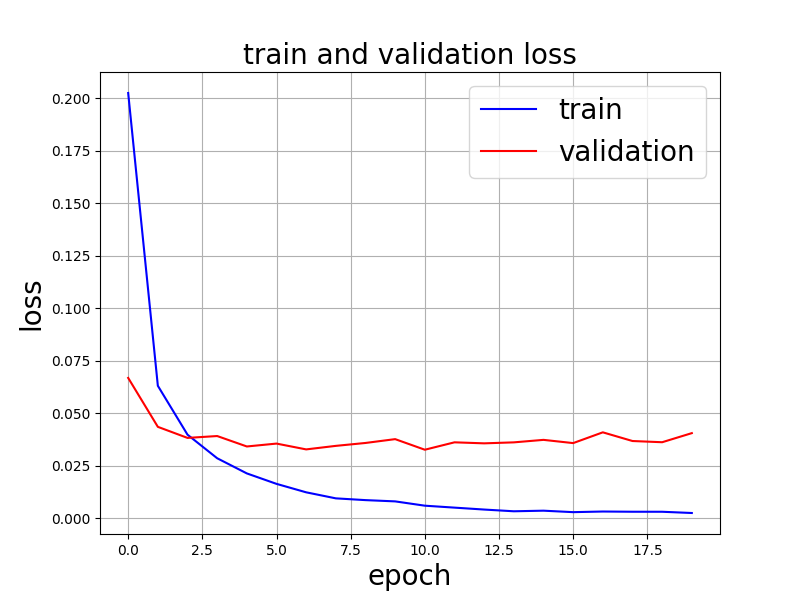
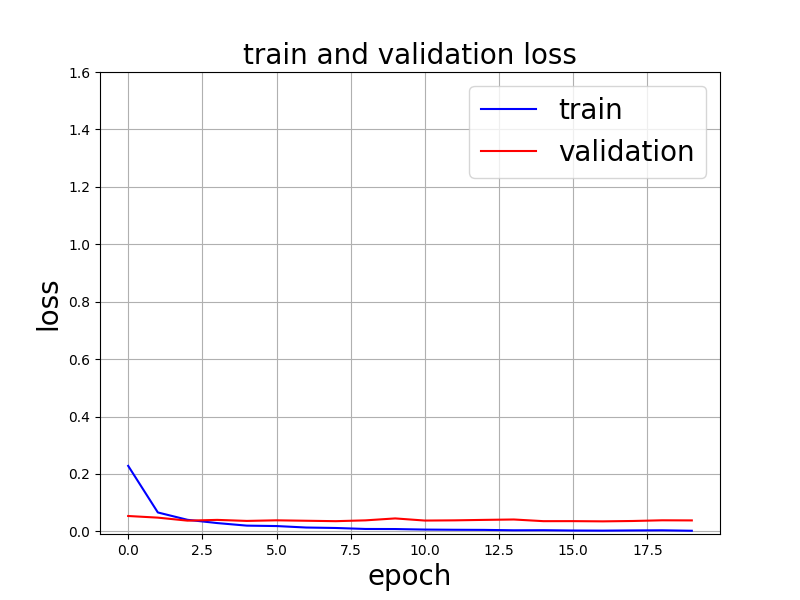
実験15

diff --git a/main.py b/main.py
@@ -14,7 +14,7 @@ model = get_resnet(pretrained=True).to(device)
 dataloader1 = get_train_dataloader(root="data", batch_size=64)
 dataloader2 = get_test_dataloader(root='data', batch_size=64)
 # オプティマイザーの定義
-optimizer = optim.SGD(params=model.parameters(),lr=1e-1)
+optimizer = optim.SGD(params=model.parameters(),lr=1e-2)
 # 損失関数の定義
 criterion = nn.CrossEntropyLoss()
 #epoch数
@@ -48,7 +48,7 @@ def train(epochs):
     print(f"epoch: {epochs + 1}")
     print(f"train_loss: {train_loss / len(dataloader1)}")
     print(f"train_accuracy: {train_accuracy / len(dataloader1)}")
-    with open('./result/data20_train.csv', 'a') as f:
+    with open('./result/data15_train.csv', 'a') as f:
             f.write('{:<3d},{:<3f},{:<3f}\n'.format(epochs+1,train_loss / len(dataloader1),train_accuracy / len(dataloader1)))
     train_loss = train_loss / len(dataloader1)
     train_accuracy = train_accuracy / len(dataloader1)
@@ -77,7 +77,7 @@ def val(epochs):
     print(f"epoch: {epochs + 1}")
     print(f"Validation loss: {val_loss / len(dataloader2)}")
     print(f"Validation accuracy: {val_accuracy / len(dataloader2)}")
-    with open('./result/data20_val.csv', 'a') as f:
+    with open('./result/data15_val.csv', 'a') as f:
             f.write('{:<3d},{:<3f},{:<3f}\n'.format(epochs+1,val_loss / len(dataloader2),val_accuracy / len(dataloader2)))
     val_loss = val_loss / len(dataloader2)
     val_accuracy = val_accuracy / len(dataloader2)
@@ -104,7 +104,7 @@ def run():
     plt.xlabel('Predict class', fontsize=13)
     plt.ylabel('True class', fontsize=13)
     plt.title('Confusion Matrix', fontsize=18)
-    plt.savefig('./result/confusion_matrix_20.png')
+    plt.savefig('./result/confusion_matrix_15.png')
     #lossグラフ作成
     fig, ax = plt.subplots(figsize=(8, 6))
     ax.plot(range(len(train_loss_list)), train_loss_list, c='b', label='train')
@@ -116,7 +116,7 @@ def run():
     ax.grid()
     ax.legend(fontsize='20')
     plt.show()
-    plt.savefig('./result/loss_graph_20.png')
+    plt.savefig('./result/loss_graph_15.png')
      #accuracyグラフ作成
     fig, ax = plt.subplots(figsize=(8, 6))
     ax.plot(range(len(train_accuracy_list)), train_accuracy_list, c='b', label='train')
@@ -128,7 +128,7 @@ def run():
     ax.grid()
     ax.legend(fontsize='20')
     plt.show()
-    plt.savefig('./result/accuracy_graph_20.png')
+    plt.savefig('./result/accuracy_graph_15.png')
     #間違えた数字の可視化
     fig = plt.figure(figsize=(20,5))
     data_block = torch.cat(data_list,dim=0)
@@ -139,7 +139,7 @@ def run():
         ax.axis('off')
         ax.set_title(f'true:{true_list[idx]} pred:{preds_list[idx]}')
         ax.imshow(data_block[idx,0])
-        plt.savefig('./result/misspreddata_20')
+        plt.savefig('./result/misspreddata_15')
 
 if __name__ == "__main__":
     run()
